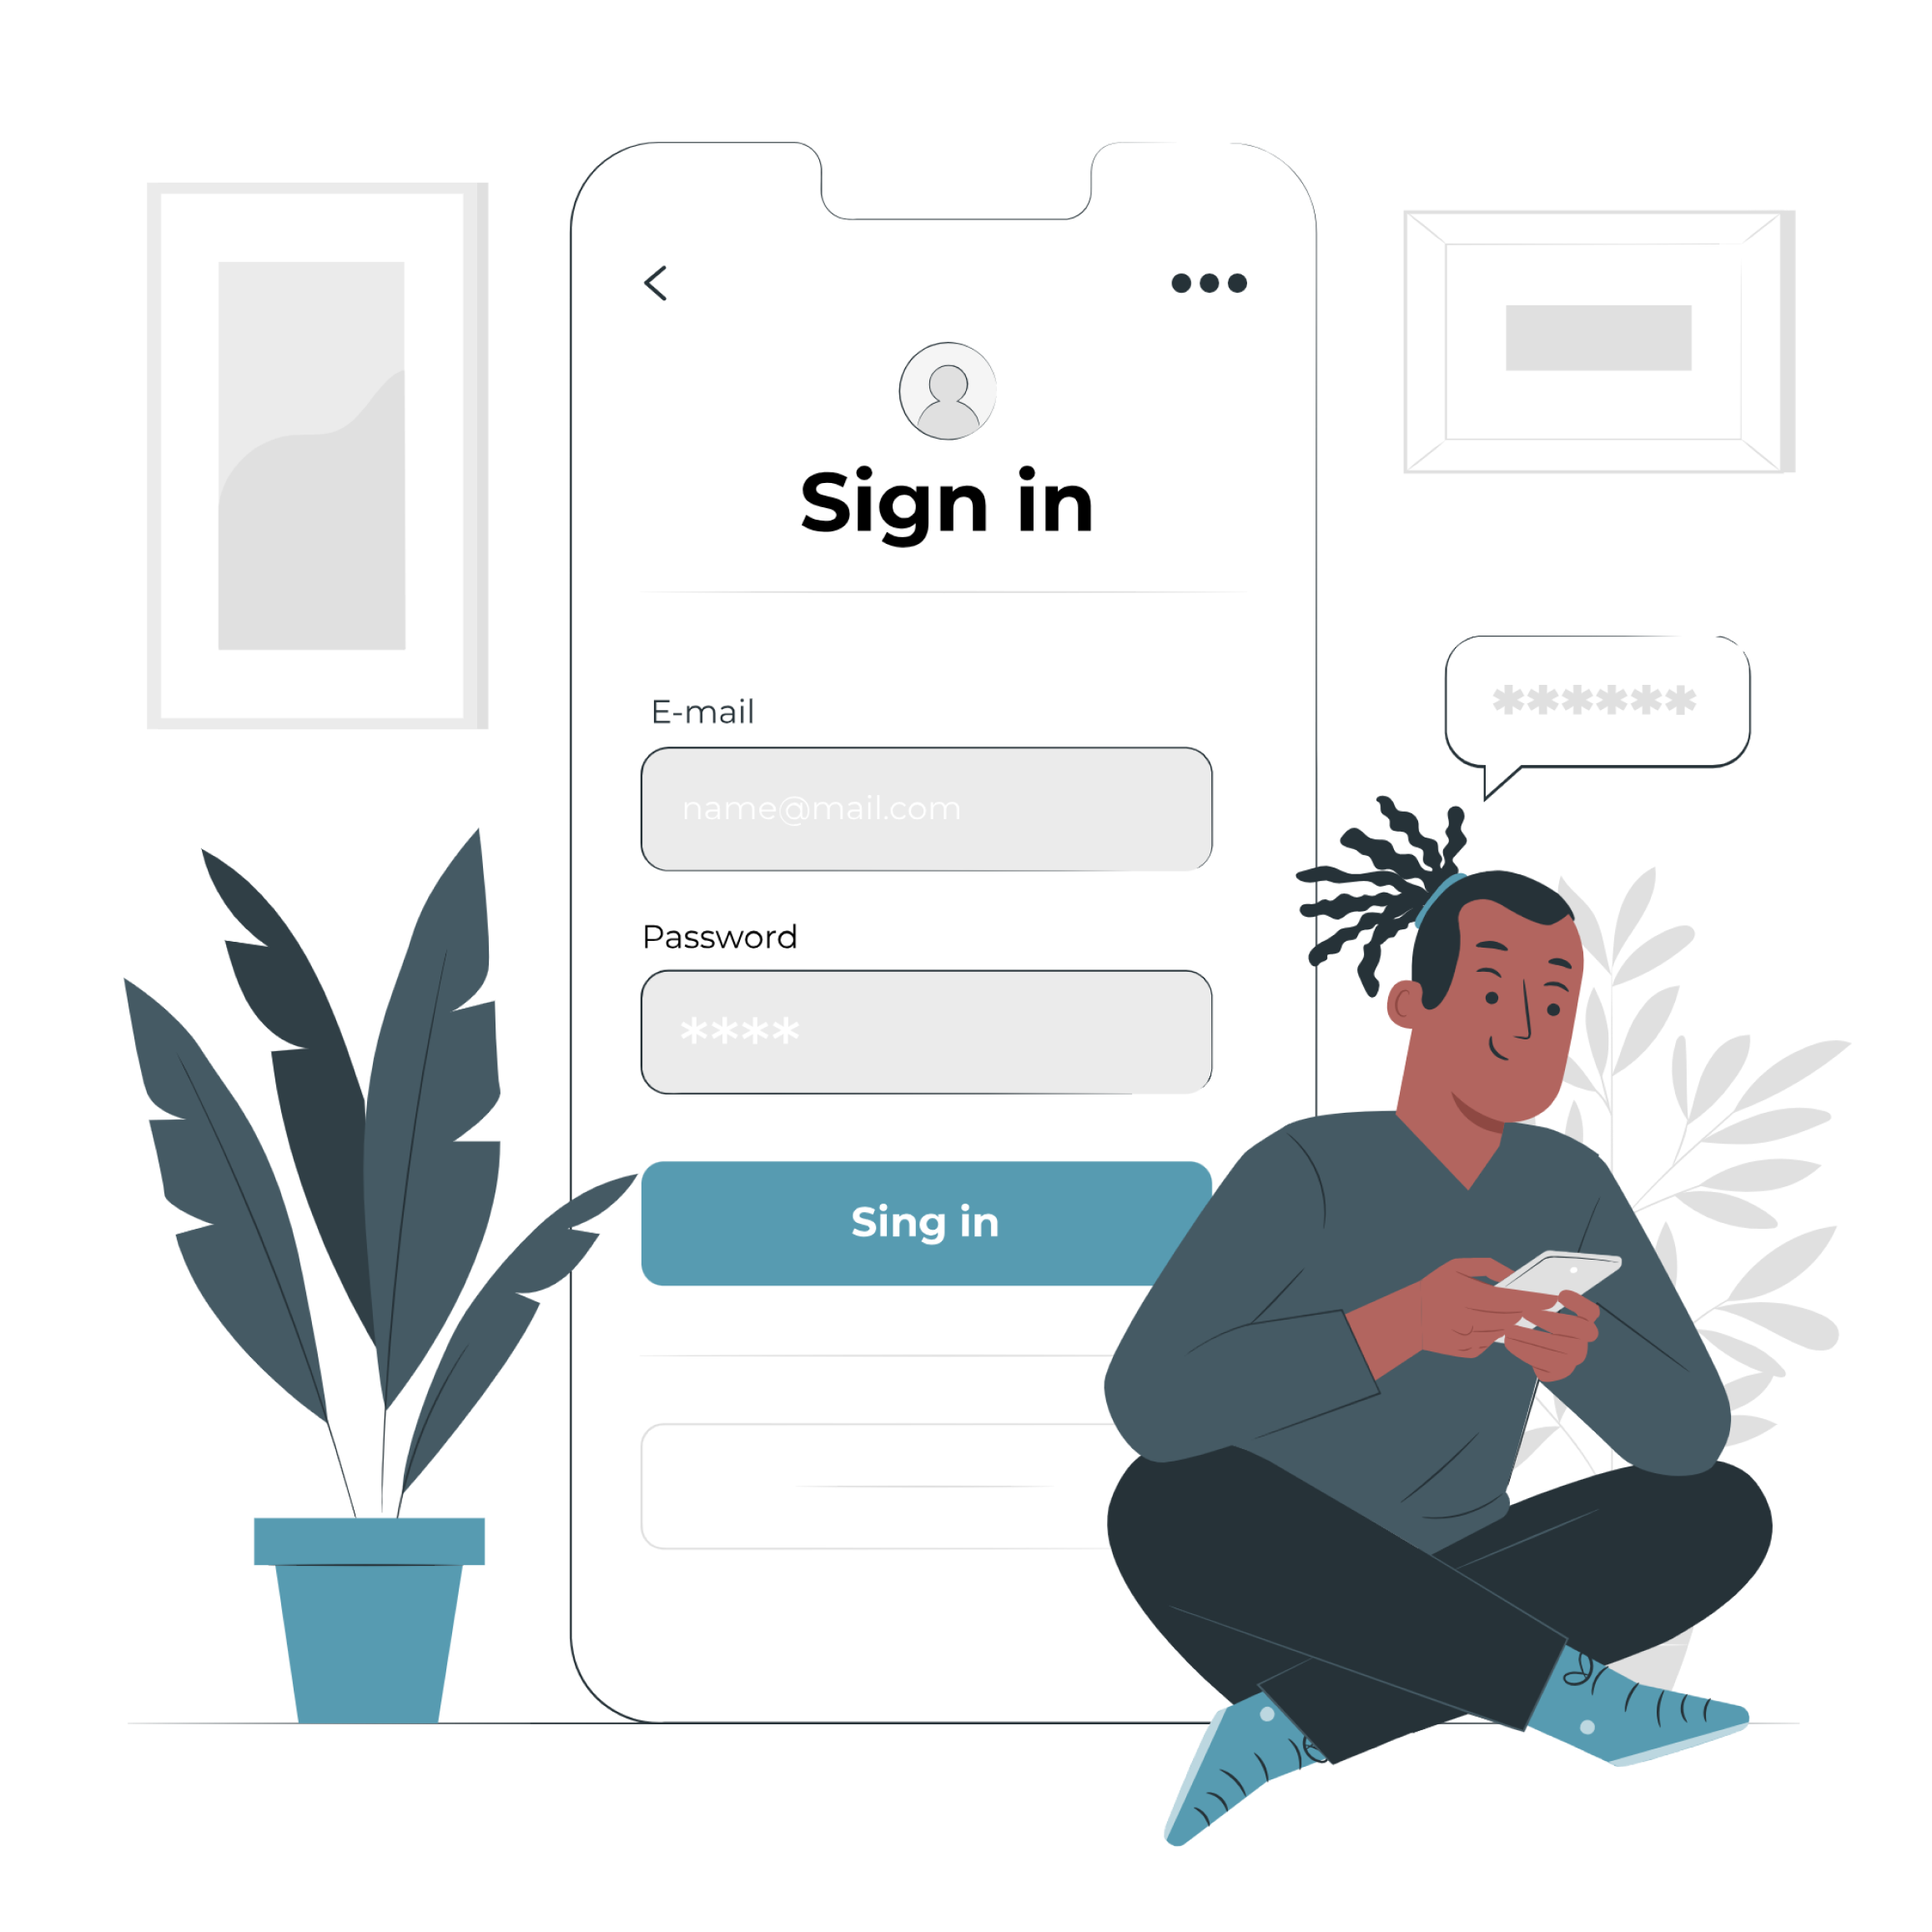
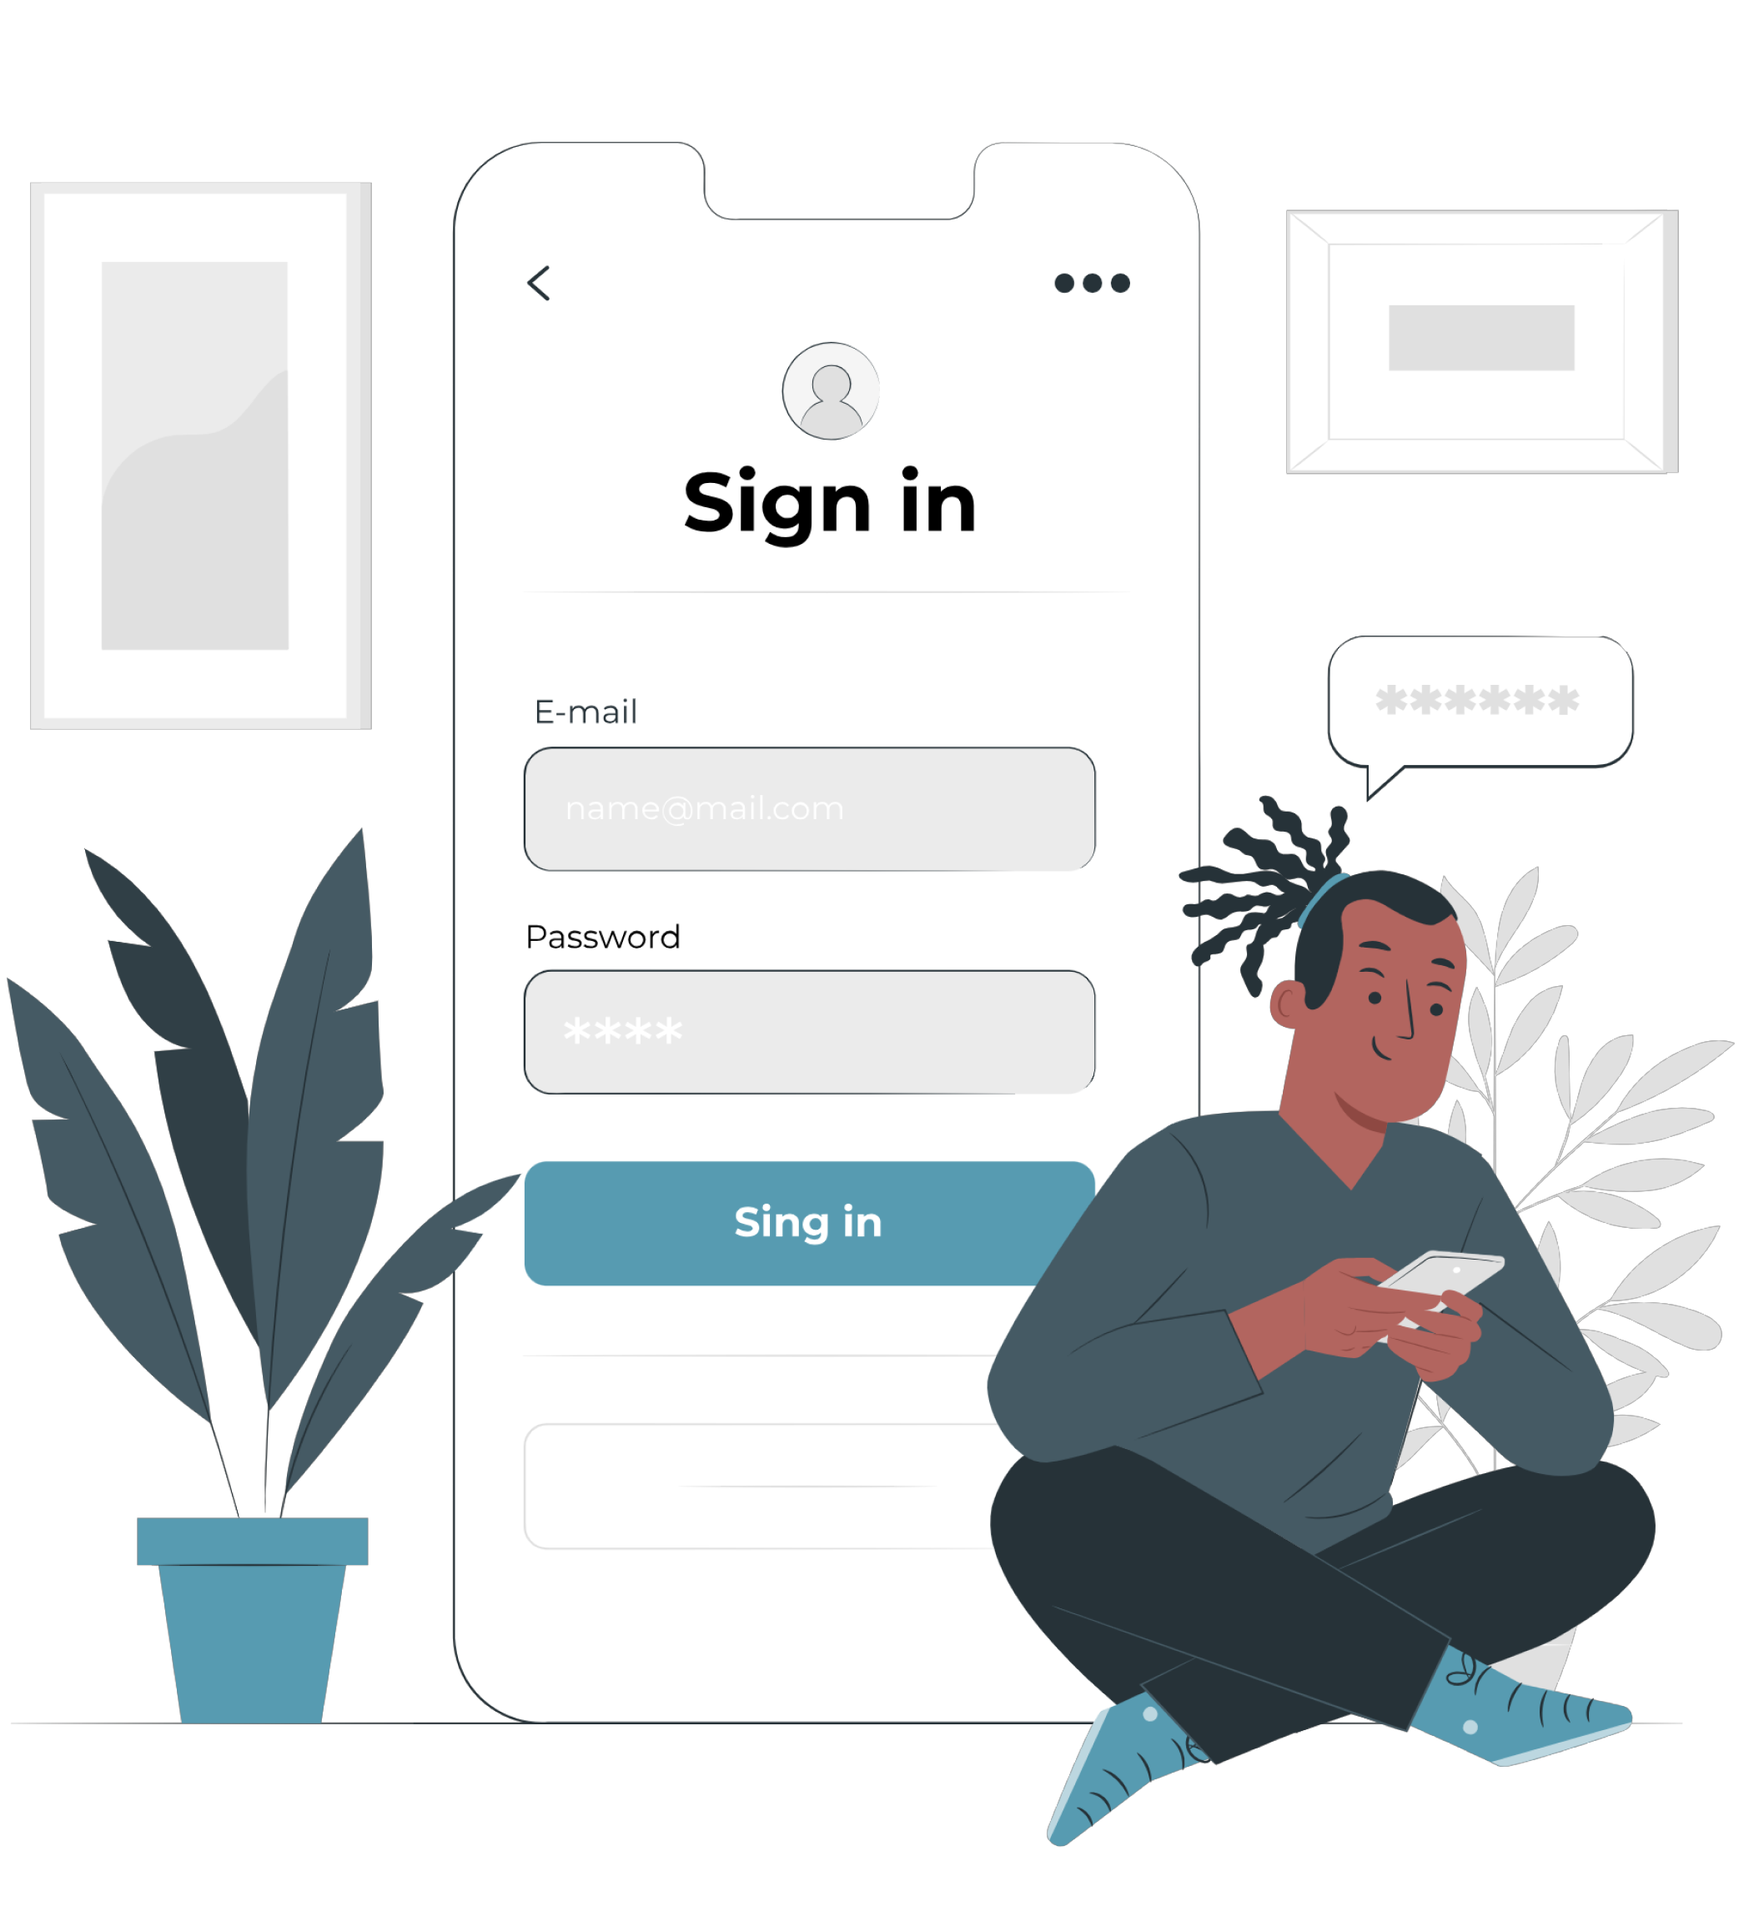
bikin signup dan signin page RESPONSIVE

diff --git a/signin.html b/signin.html
@@ -11,11 +11,11 @@
     <link href="https://fonts.googleapis.com/css2?family=Pacifico&family=Poppins:wght@400;500;700&display=swap" rel="stylesheet">
 </head>
 <body class="beige3-bg display-flex align-center">
-    <container class="display-flex align-center full-width full-height">
-        <section class="text-center half-width">
-            <img src="img/sign-ill.png" alt="" class="sign-ill">
+    <container class="container display-grid gtc-2fr align-center">
+        <section class="left text-center">
+            <img src="img/sign-ill.png" alt="" class="quarter-width">
         </section>
-        <section class="half-width">
+        <section class="right display-flex justify-center">
             <div class="box-form white-bg quarter-width text-center">
                 <img src="img/logo1.png" alt="" class="sign-logo">
                 <h3 class="margin-bottom-15">Sign in to Planify</h3>

diff --git a/signup.html b/signup.html
@@ -11,11 +11,11 @@
     <link href="https://fonts.googleapis.com/css2?family=Pacifico&family=Poppins:wght@400;500;700&display=swap" rel="stylesheet">
 </head>
 <body class="beige3-bg display-flex align-center">
-    <container class="display-flex align-center full-width full-height">
-        <section class="text-center half-width">
-            <img src="img/sign-ill.png" alt="" class="sign-ill">
+    <container class="container display-grid gtc-2fr align-center">
+        <section class="left text-center">
+            <img src="img/sign-ill.png" alt="" class="quarter-width">
         </section>
-        <section class="half-width">
+        <section class="right display-flex justify-center">
             <div class="box-form white-bg quarter-width text-center">
                 <img src="img/logo1.png" alt="" class="sign-logo">
                 <h3 class="margin-bottom-15">Sign up to Planify</h3>

diff --git a/css/style.css b/css/style.css
@@ -8,7 +8,10 @@ body{
   color: #222223;
   font-family: "Poppins", sans-serif;
   font-size: 13px;
-  padding: 30px 0;
+  display: grid;
+  place-items: center;
+  min-height: 100vh;
+  padding: 30px
 }
 
 a{
@@ -120,6 +123,18 @@ button{
   cursor: pointer;
 }
 
+.display-grid{
+  display: grid;
+}
+
+.gtc-1fr{
+  grid-template-columns: 1fr;
+}
+
+.gtc-2fr{
+  grid-template-columns: 1fr 1fr;
+}
+
 .display-flex{
   display: flex;
 }
@@ -200,4 +215,18 @@ button{
   margin: 8px 8px 8px 0px;
   padding: 4px;
   border-radius: 5px;
+}
+
+@media (max-width: 860px) {
+  .container{
+    grid-template-columns: 1fr;
+  }
+
+  section.left{
+    display: none;
+  }
+
+  .box-form{
+    width: 100%;
+  }
 }
